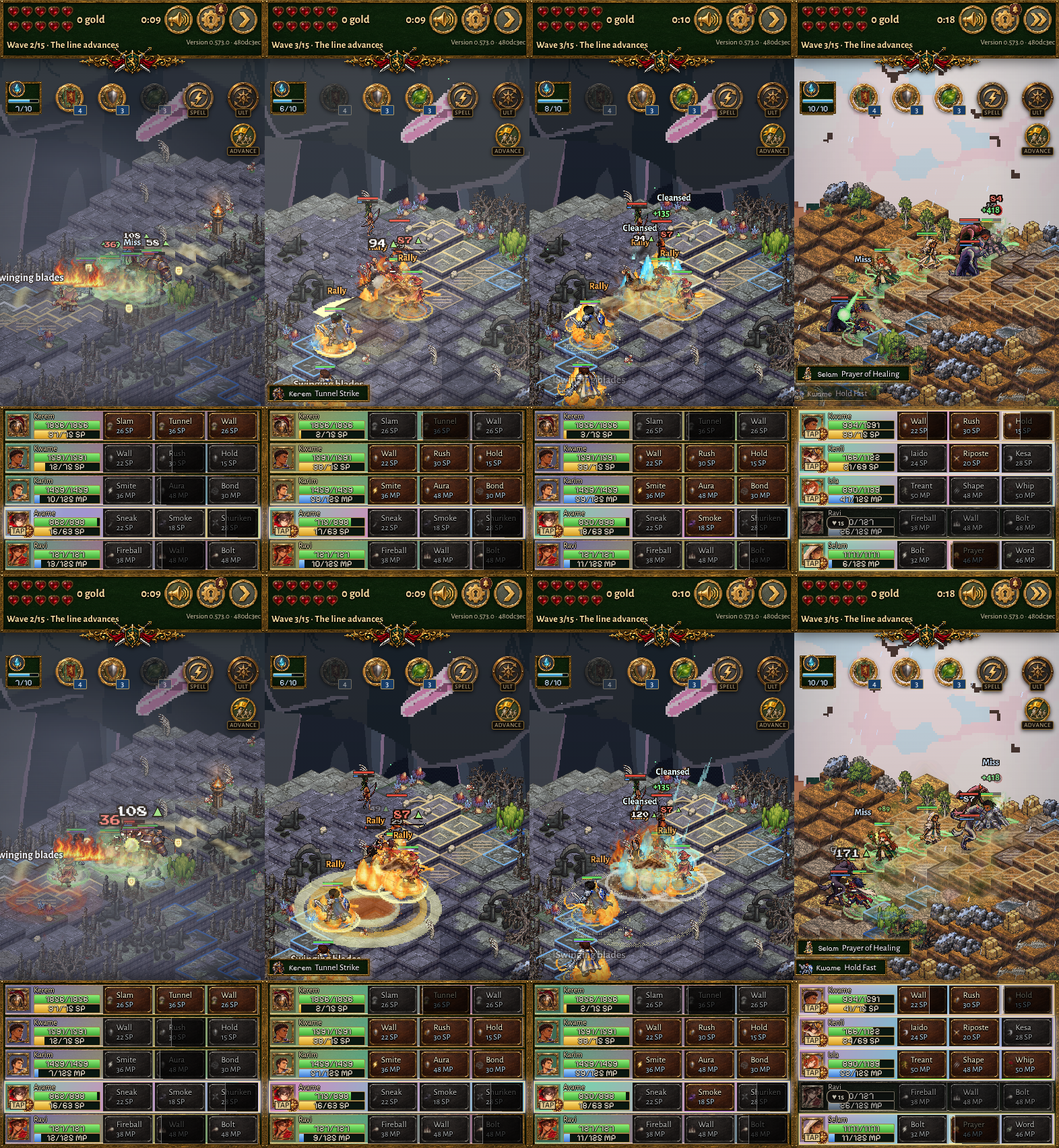
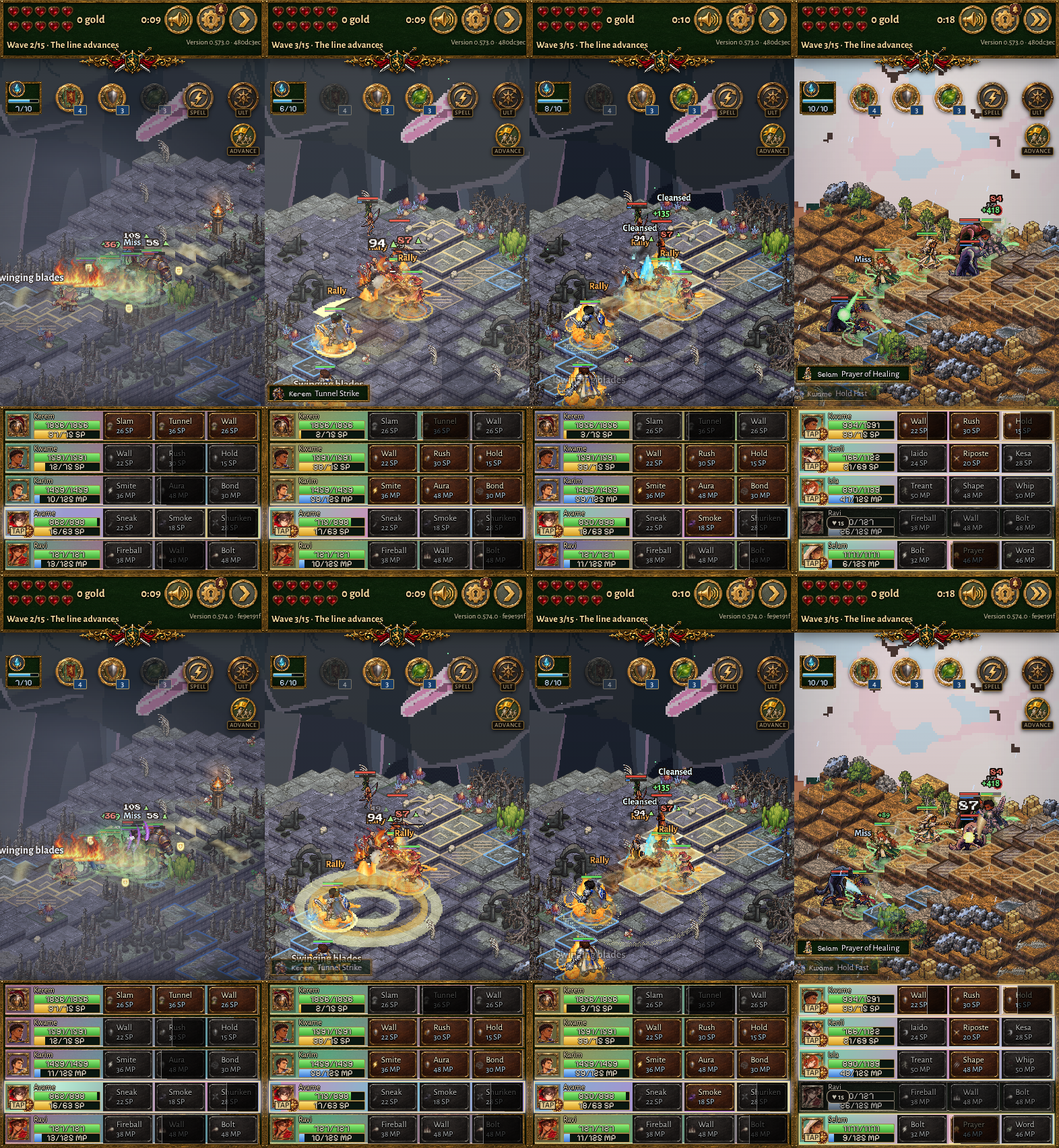
ROW-UNDER 2, corrected: only what lies flat on the ground goes on the rows
The first try put rising clips on the rows too, and Rally's flames buried two
heroes. Flat painted bits and ground clips go on the rows; anything that rises
stays in the fighter's own layer. Rally's ring is hoops of light, not a plate.

Claude-Session: https://claude.ai/code/session_01RRJtWnKv3aqtC5Z8HqXpVz

diff --git a/src/render/fx.ts b/src/render/fx.ts
@@ -282,12 +282,13 @@ export class Fx {
     // (FX-CLEAR: the puffs, rings and signature steps laid over a fighter are thinned too)
     // (ON-FIGHTER: thinned to the rule's ceiling, and drawn again at full strength under the body it lies over)
     this.particles.cover = (x, y, half) => (this.overBody(x, y, half) ? PAINT_OVER : 1);
-    this.particles.under = (x, y, half) => {
+    this.particles.under = (x, y, half, flat) => {
       const s = this.bodyAt(x, y, half);
       if (!s) return null;
-      // (ROW-UNDER: on the ground of every row the bit covers, so it is under every fighter and not only the one farthest back;
-      // the fighter's own layer where the board gives no rows)
-      const rows = this.rowUnder([x - half, y - half, x + half, y + half]);
+      // (ROW-UNDER: a bit that lies FLAT on the ground (a ring, a disc) goes on the ground of every row it covers, so it is under
+      // every fighter. A bit that rises (a flame, a pillar, sparks) does not: laid on a row it stands up the screen over the fighters
+      // of the rows behind and buries them. It stays in the one fighter's own layer, as does everything where a board gives no rows)
+      const rows = flat ? this.rowUnder([x - half, y - half, x + half, y + half]) : [];
       if (rows.length) return rows.map((to) => ({ to, ox: 0, oy: 0, k: 1, a: ROW_PAINT }));
       return [{ to: this.underAt(s.underLayer(), this.lows), ox: s.root.x, oy: s.root.y, k: s.root.scale.x || 1 }];
     };
@@ -1683,21 +1684,8 @@ export class Fx {
     // (ON-FIGHTER: a strip laid over a fighter's body is drawn under that body, in the fighter's own layer, at its full strength: it
     // was drawn over it at six tenths)
     const host = this.bodyAt(x, y, 16 * scale);
-    // (ROW-UNDER: on the ground of every row it covers, a copy on each, so it is under every fighter; the fighter's own layer where
-    // the board gives no rows)
-    const half = (s.frames[0].frame.width * scale) / 2;
-    const rows = host ? this.rowLayers([x - half, y - half, x + half, y + half]) : [];
-    const copies: Sprite[] = [];
-    if (host && rows.length) {
-      rows[0].addChild(sp);
-      for (const layer of rows.slice(1)) {
-        const copy = new Sprite(s.frames[0]);
-        copy.anchor.set(0.5);
-        copy.position.set(x, y);
-        layer.addChild(copy);
-        copies.push(copy);
-      }
-    } else if (host) {
+    // (a strip rises as often as it lies, and cannot be told apart: it stays in the fighter's own layer, never on the ground's rows)
+    if (host) {
       const k = host.root.scale.x || 1;
       scale /= k;
       sp.scale.set(scale);
@@ -1707,27 +1695,8 @@ export class Fx {
     let t = 0;
     let peak: number | undefined;
     let own: number | undefined;
-    const show = (): void => {
-      for (const copy of copies) {
-        if (copy.destroyed) continue;
-        copy.texture = sp.texture;
-        copy.scale.copyFrom(sp.scale);
-        copy.rotation = sp.rotation;
-        copy.alpha = sp.alpha;
-        copy.tint = sp.tint;
-        copy.blendMode = sp.blendMode;
-      }
-    };
     this.items.push({
-      view: {
-        get destroyed() {
-          return sp.destroyed;
-        },
-        destroy: (opt) => {
-          if (!sp.destroyed) sp.destroy(opt);
-          for (const copy of copies) if (!copy.destroyed) copy.destroy();
-        },
-      },
+      view: sp,
       step: (dt) => {
         t += dt;
         // (it keeps the alpha it was given: over a fighter it is under the body, above)
@@ -1737,7 +1706,6 @@ export class Fx {
         if (f >= s.frames.length) return false;
         sp.texture = s.frames[f];
         if (!paintSprite(sp, t, s.frames.length * frameMs, scale, 0, peak, false, this.calm())) sp.alpha = own;
-        show();
         return true;
       },
     });
@@ -2089,9 +2057,10 @@ export class Fx {
             // (the view, glow and all, goes under the body a little larger than itself, `UNDER.SIZE`; and a second copy of the clip
             // stays over the fighter as thin as its measured cover of a body allows, so the spell is still seen to land on them:
             // under the body alone a heal was all but hidden by whom it healed)
-            // (ROW-UNDER: on the ground of every row the clip covers, a copy on each, so it is under every fighter it lies over and
-            // not only the one farthest back; the fighter's own layer where the board gives no rows)
-            const rows = this.rowLayers(bfxBox(c, x, y, (Math.abs(sp.scale.y) / BFX_SCALE) * UNDER.SIZE));
+            // (ROW-UNDER: a clip that lies flat on the ground (`layer: 'ground'`: rings, a disc of light) goes on the ground of every
+            // row it covers, a copy on each, so it is under every fighter it lies over. A clip that rises (flames, a pillar) stays in
+            // the one fighter's own layer: on a row it would stand up the screen over the fighters of the rows behind)
+            const rows = c.layer === 'ground' ? this.rowLayers(bfxBox(c, x, y, (Math.abs(sp.scale.y) / BFX_SCALE) * UNDER.SIZE)) : [];
             if (rows.length) {
               view.scale.set(UNDER.SIZE);
               low = c.w * BFX_SCALE > TW * 1.5 ? ROW_CLIP.WIDE : ROW_CLIP.ONE;

diff --git a/test/on-fighter.test.ts b/test/on-fighter.test.ts
@@ -160,11 +160,17 @@ test("ROW-UNDER: an ultimate's copy under a fighter lies on every row its pictur
   assert.match(fx, /this\.stepUnder\(this\.rowLows, dt, true\);/);
 });
 
-test('ROW-UNDER 2: painted bits, painted strips and the king\'s spells lie on the ground\'s rows, tempered, under every fighter', () => {
+test('ROW-UNDER 2: what lies flat on the ground (a painted ring, a king\'s spell\'s ring) goes on the ground\'s rows, tempered; what rises does not', () => {
   const fx = readFileSync('src/render/fx.ts', 'utf8');
-  // (a strip and a king's spell's clip take a copy on each row they cover; the fighter's own layer where there are no rows)
-  assert.match(fx, /const rows = host \? this\.rowLayers\(\[x - half, y - half, x \+ half, y \+ half\]\) : \[\];/);
-  assert.match(fx, /const rows = this\.rowLayers\(bfxBox\(c, x, y, \(Math\.abs\(sp\.scale\.y\) \/ BFX_SCALE\) \* UNDER\.SIZE\)\);/);
+  // (the director's ruling after Rally's flames buried two heroes: only what lies FLAT on the ground goes on the rows. A painted bit
+  // that is flat, and a clip made to lie on the ground; a bit or a clip that rises stays in the one fighter's own layer, and a
+  // painted strip, which cannot be told apart, always does)
+  assert.match(fx, /const rows = flat \? this\.rowUnder\(\[x - half, y - half, x \+ half, y \+ half\]\) : \[\];/);
+  assert.match(fx, /const rows = c\.layer === 'ground' \? this\.rowLayers\(bfxBox\(c, x, y, \(Math\.abs\(sp\.scale\.y\) \/ BFX_SCALE\) \* UNDER\.SIZE\)\) : \[\];/);
+  assert.doesNotMatch(fx, /const copies: Sprite\[\] = \[\];/);
+  assert.match(readFileSync('src/render/particles.ts', 'utf8'), /this\.under\?\.\(b\.x, b\.y, b\.half \?\? 16 \* \(b\.scale \?\? 1\) \* Math\.max\(b\.stretchX \?\? 1, b\.stretchY \?\? 1, 1\), flatOf\(b\)\);/);
+  // (Rally's rings under the party are hoops of light with a faint glow inside, not the Ring's solid middle)
+  assert.equal(BFX_CLIPS['spell-rally-cast'].layer, 'ground');
   assert.match(fx, /low = c\.w \* BFX_SCALE > TW \* 1\.5 \? ROW_CLIP\.WIDE : ROW_CLIP\.ONE;/);
   // (on the rows the whole of a picture shows, where the nearer tiles used to hide most of it: it is drawn below full strength, a
   // wide ring under a party the most tempered, and never so thin that it is lost)

diff --git a/src/render/particles.ts b/src/render/particles.ts
@@ -83,8 +83,8 @@ export class Particles {
   /** ON-FIGHTER (`onFighterRules.ts`): where a bit that lies over a fighter's body is ALSO drawn, at its full strength, under that
    *  body: the pools it is copied to (one over each row of the ground it covers, or the fighter's own layer) and how to carry the
    *  bit into each one's space (its origin `ox, oy` and scale `k`; `a`, how strongly the copy is drawn there, 1 when not given);
-   *  null where it lies over no one. The copy here is then thinned by `cover`. */
-  under?: (x: number, y: number, half: number) => { to: Particles; ox: number; oy: number; k: number; a?: number }[] | null;
+   *  null where it lies over no one. `flat`: the bit lies along the ground (a ring, a disc), as against one that rises. The copy here is then thinned by `cover`. */
+  under?: (x: number, y: number, half: number, flat: boolean) => { to: Particles; ox: number; oy: number; k: number; a?: number }[] | null;
   /** ULT-EPIC: what the bits made now are scaled by (an ultimate's moment draws its effects about twice the size: `Fx.setEpic`); their
    *  drift and growth with them, so a burst spreads as far as it is big; capped, `boostedScale`). 1 the rest of the time. */
   boost = 1;
@@ -103,7 +103,7 @@ export class Particles {
       b = { ...b, scale, ...(b.vx ? { vx: b.vx * k } : {}), ...(b.vy ? { vy: b.vy * k } : {}), ...(b.grow ? { grow: b.grow * k } : {}), ...(b.gravity ? { gravity: b.gravity * k } : {}), ...(b.half ? { half: b.half * k } : {}) };
     }
     if (this.live.length >= (b.prio ? this.cap * 1.3 : this.cap)) return;
-    const low = b.bare ? null : this.under?.(b.x, b.y, b.half ?? 16 * (b.scale ?? 1) * Math.max(b.stretchX ?? 1, b.stretchY ?? 1, 1));
+    const low = b.bare ? null : this.under?.(b.x, b.y, b.half ?? 16 * (b.scale ?? 1) * Math.max(b.stretchX ?? 1, b.stretchY ?? 1, 1), flatOf(b));
     for (const one of low ?? []) {
       const k = one.k;
       one.to.calm = this.calm;

diff --git a/src/render/bodyCover.ts b/src/render/bodyCover.ts
@@ -33,7 +33,7 @@ export const BODY_COVER: Readonly<Record<string, number>> = {
   'spell-quake-hit': 0.158,
   'spell-raisedead-cast': 0.464,
   'spell-raisedead-hit': 0.62,
-  'spell-rally-cast': 0.676,
+  'spell-rally-cast': 0.598,
   'spell-rally-hit': 0.494,
   'spell-renewal-cast': 0.39,
   'spell-renewal-hit': 0.05,

diff --git a/tools/blender-fx/scenes.py b/tools/blender-fx/scenes.py
@@ -2394,8 +2394,25 @@ def dust(c, r=1.0, n=11, h=0.3):
     return step
 
 
+# 75. Hoops: the Ring's hoops of light along the ground with only a faint glow inside them (`fill` of the Ring's), so what lies on
+# the ground under a party reads as rings of light and not a plate. (A scene of its own, so the Ring's many clips are not rendered
+# again for it.)
+def hoops(c, r=1.5, n=3, thick=0.05, fill=0.2):
+    rings = [c.ring('bright' if i % 2 else 'hot', thick * (1 - i * 0.2)) for i in range(n)]
+    glow, ga = c.disc('mid', 0.8, r * 0.8)
+
+    def step(t):
+        for i, (o, v) in enumerate(rings):
+            g = win(t, i * 0.14, 0.6 + i * 0.14)
+            put(o, (0, 0, 0.03), (r * (0.1 + 0.95 * ease(g)),) * 2 + (1 + 2 * (1 - g),))
+            v.outputs[0].default_value = 1 - win(g, 0.6, 1)
+            hide(o, g <= 0 or g >= 1)
+        ga.inputs[1].default_value = 1.4 * fill * bell(win(t, 0, 0.6))
+    return step
+
+
 SCENES = {f.__name__: f for f in (
     burst, pillar, spikes, arc, bolt, vortex, beam, nova, rain, crack, dome, projectile, trail, ring, swarm, chains, meteor, cloud, geyser, sigil,
     wall, crystal, shatter, gust, vines, motes, shout, spiral, implode, bite, eye, ribs, flames, ground, sparks, cross, smoke, portal, claws, veil,
-    halo, shockwave, souls, hearts, shaft, slab, flare, strike, comet, palisade, siphon, tile, impact, spirits, beast, eyes, whirlpool, sandstorm, wings, banner, flock, notes, eclipse, broadside, toll, meteors, wisp, pool, strand, guard, swipe, muzzle, dust,
+    halo, shockwave, souls, hearts, shaft, slab, flare, strike, comet, palisade, siphon, tile, impact, spirits, beast, eyes, whirlpool, sandstorm, wings, banner, flock, notes, eclipse, broadside, toll, meteors, wisp, pool, strand, guard, swipe, muzzle, dust, hoops,
 )}

diff --git a/tools/blender-fx/effects.py b/tools/blender-fx/effects.py
@@ -105,7 +105,8 @@ spell('poison', 'cast', 'smoke', 'poison', 2.2, 2.2, r=1.2, h=1.4, puffs=7, **HI
 spell('poison', 'stand', 'cloud', 'poison', 1.0, 1.4, pad=0.6, r=0.6, h=0.5, puffs=5, bubbles=5, **LOOP)
 spell('frost', 'cast', 'nova', 'ice', 2.0, 1.4, r=1.5, **ONCE)
 spell('frost', 'hit', 'spikes', 'ice', 0.8, 1.2, r=0.4, h=1.0, n=4, **HIT)
-spell('rally', 'cast', 'ring', 'fire', 2.3, 0.5, r=2.0, n=3, thick=0.08, layer='ground', **HIT)
+# (its rings lie on the ground under the whole party: hoops with a faint glow inside, not the Ring's solid middle)
+spell('rally', 'cast', 'hoops', 'fire', 2.3, 0.5, r=2.0, n=3, thick=0.08, layer='ground', **HIT)
 spell('rally', 'hit', 'flare', 'fire', 1.0, 2.2, r=0.36, h=1.25, tongues=4, **ONCE)
 spell('quake', 'cast', 'crack', 'earth', 3.0, 1.2, r=2.6, arms=7, rubble=18, frames=16, ms=1200, layer='ground')
 spell('quake', 'hit', 'spikes', 'earth', 0.9, 1.1, r=0.45, h=0.9, n=5, verts=4, frost=False, seed=3, **HIT)

diff --git a/docs/notes/on-fighter.md b/docs/notes/on-fighter.md
@@ -194,41 +194,51 @@ nothing playing is not drawn. Where the board gives no rows the fighter's own la
 - Not covered: the painted hazes and the king's spells still go under the farthest-back fighter they overlap (`bodyAt`), not on
   the rows; a picture's part over a chasm shows on the layer behind the board.
 
-## Since: ROW-UNDER 2, the painted bits and the king's spells on the ground's rows
+## Since: ROW-UNDER 2, what lies flat on the ground goes on the ground's rows
 
-The owner's standing rule is that no effect may hide a hero. After ROW-UNDER, three things still went under the farthest-back
-fighter they overlapped (`bodyAt`) and so could still lie over a fighter behind that one's row, and were cut by the nearer tiles:
-the painted bits (a skill's cast and hit, a healer's haze; `Particles.under`), a painted strip (`Fx.anim`), and a king's spell's
-rendered clip (`bfxOnce`). All three now lie on the ground's rows, as an ultimate's copy does: a copy on the layer over each row
-the picture covers, cut to that row's columns, and one behind the board (`rowLayers`). The fighter's own layer is used only where
-a board gives no rows.
+The owner's standing rule is that no effect may hide a hero. After ROW-UNDER, the painted bits, the painted strips and the
+king's spells' clips still went under the farthest-back fighter they overlapped (`bodyAt`), in that fighter's own layer, where
+the nearer tiles cut a ring at the feet.
 
-- **Tempered.** In a fighter's own layer the nearer tiles hid most of a large picture. On the rows all of it shows, and at full
-  strength the king's Rally was a bright disc three tiles across with a solid middle. So a painted bit's copy is drawn at
-  `ROW_PAINT` (0.7), a spell's clip at `ROW_CLIP.ONE` (0.85) and one wider than a tile and a half at `ROW_CLIP.WIDE` (0.55). The
-  thin copy over the fighters is as it was.
-- **Kept ready.** The rows' tiles are gathered once for a board and its frame (`rowTiles`), not for every bit; a row's layer is
-  drawn only while something plays or lies on it.
-- **Memory:** nothing new is loaded; no atlas changed.
+**The first try was wrong, and the director refused it.** It put all three on the rows whole (a copy on the layer over each row
+the picture covers, cut to that row's columns). The king's Rally then buried the two heroes in the middle of the party under
+large flame tongues: Rally's `hit` clip is tall flames, and a tall picture laid on the rows stood up the screen over the fighters
+of the rows behind. Taking the cut rows away in the page (`EVAL=` in `tools/blender-fx/shots.mjs`) brought the heroes back, so
+the rows were the cause; taking away only the layer behind the board did not.
+
+**The rule now** (the director's): on the rows, only what lies FLAT on the ground.
+
+- A painted bit that is flat (a ring, a disc: laid along the ground, `flatOf`) is copied to the rows at `ROW_PAINT` (0.7). A
+  painted bit that rises (a flame, a pillar, sparks, a healer's haze) stays in the one fighter's own layer, as before.
+- A king's spell's clip made to lie on the ground (`layer: 'ground'`: rings, a disc of light) is copied to the rows at
+  `ROW_CLIP.ONE` (0.85), or `ROW_CLIP.WIDE` (0.55) when it is wider than a tile and a half. A clip that rises stays in the
+  fighter's own layer, as before.
+- A painted strip cannot be told apart, so it always stays in the fighter's own layer, as before.
+- **Rally's ring** was the Ring scene's hoops round a solid orange middle, which read as a plate once all of it showed. It is
+  now `hoops` (the same hoops with a faint glow inside), so it reads as rings of light.
+
+So what changed in the end is small: flat rings under a party are whole on the ground and under every fighter, where they were
+cut by the nearer tiles. Flames, pillars and hazes are exactly where they were.
+
+- **Memory:** nothing new is loaded; the atlases are the same size (Rally's ring was rendered again in its own place).
 - **Frame cost**, a whole ordinary fight of 20 s (1250 frames), the CPU throttled four times, the graphics card made to finish
   each frame (`WATCH=1 FRAMES=1 node tools/blender-fx/ult-shots.mjs --picks ...`), three runs each:
 
   | | mean ms | median | 95th percentile |
   | --- | --- | --- | --- |
-  | before | 4.4, 3.2, 4.4 | 2.4, 1.8, 2.6 | 11.6, 8.2, 11.3 |
-  | after | 4.8, 4.2, 4.5 | 3.2, 2.6, 2.9 | 11.6, 10.1, 11.8 |
+  | before | 3.6, 3.8, 3.6 | 2.3, 2.3, 2.2 | 9.2, 9.5, 8.9 |
+  | after | 4.0, 3.7, 3.5 | 2.3, 2.4, 2.0 | 9.8, 9.7, 9.7 |
 
-  About half a millisecond more on the mean and the median, the 95th percentile within the runs' own spread. Sixteen row layers
-  are being drawn on the average through such a fight (24 at the most): a bit over a fighter is now several bits, one a row.
-- **Soak** (`tools/freeze-fix/soak.mjs`, seven minutes, ultimates and king's spells by hand): 25 fights, 136 spells, 141
-  ultimates, 145 horns; no stalled fight, no wave end over 8 s.
+  Within the runs' own spread. Two row layers are drawn on the average through such a fight (18 at the most).
 - **Photographs:** `docs/samples/blender-fx/row-under-spells-before-after-393.png` (before above, after below: the king's Heal,
-  Rally and Cleanse on the party, and the Cleric's Prayer of Healing in an ordinary fight).
-- **Verdict.** Every hero stands over the spell and the haze and is readable. Rally's and Cleanse's rings are now whole on the
-  ground where they were mostly hidden; even tempered they are more present than before, which is the largest change to the
-  eye. The healing haze is a pale wash across five or so tiles of ground where it was wisps beside the fighters: the ground under
-  it is a little milky while it lasts.
-- **Not covered:** a bit that drifts out of the rows it was laid on is cut at their edge; loops that stay round a fighter
-  (`bfxRound`, an ultimate's aura) are still in that fighter's own layer.
+  Rally and Cleanse on the party, and the Cleric's Prayer of Healing in an ordinary fight) and
+  `docs/samples/blender-fx/row-under-spells-rally-cleanse-2x.png` (Rally before and after, Cleanse before and after, at twice the
+  size).
+- **Not understood, and said plainly:** by the geometry a row's piece is cut to that row's own columns and should not stand over
+  the fighters of the rows behind, yet it did, on stepped ground. The cuts were in place (each row's layer had its mask). The
+  flat-only rule removes the fault whatever its cause, because a flat picture has nothing to stand up. **An ultimate's copy
+  (ROW-UNDER, above) uses the same rows and is the ultimate's whole strike clip, rising parts and all**, so the same fault may
+  be there on stepped ground. It was not seen in the four ultimates photographed, on gentler ground.
 
-`ROOT=` and one fixed seed in `tools/blender-fx/shots.mjs` make two builds' spell photographs the same field.
+`ROOT=`, `EVAL=` and one fixed seed in `tools/blender-fx/shots.mjs` make two builds' spell photographs the same field and let
+one layer be taken away to see what another shows.
